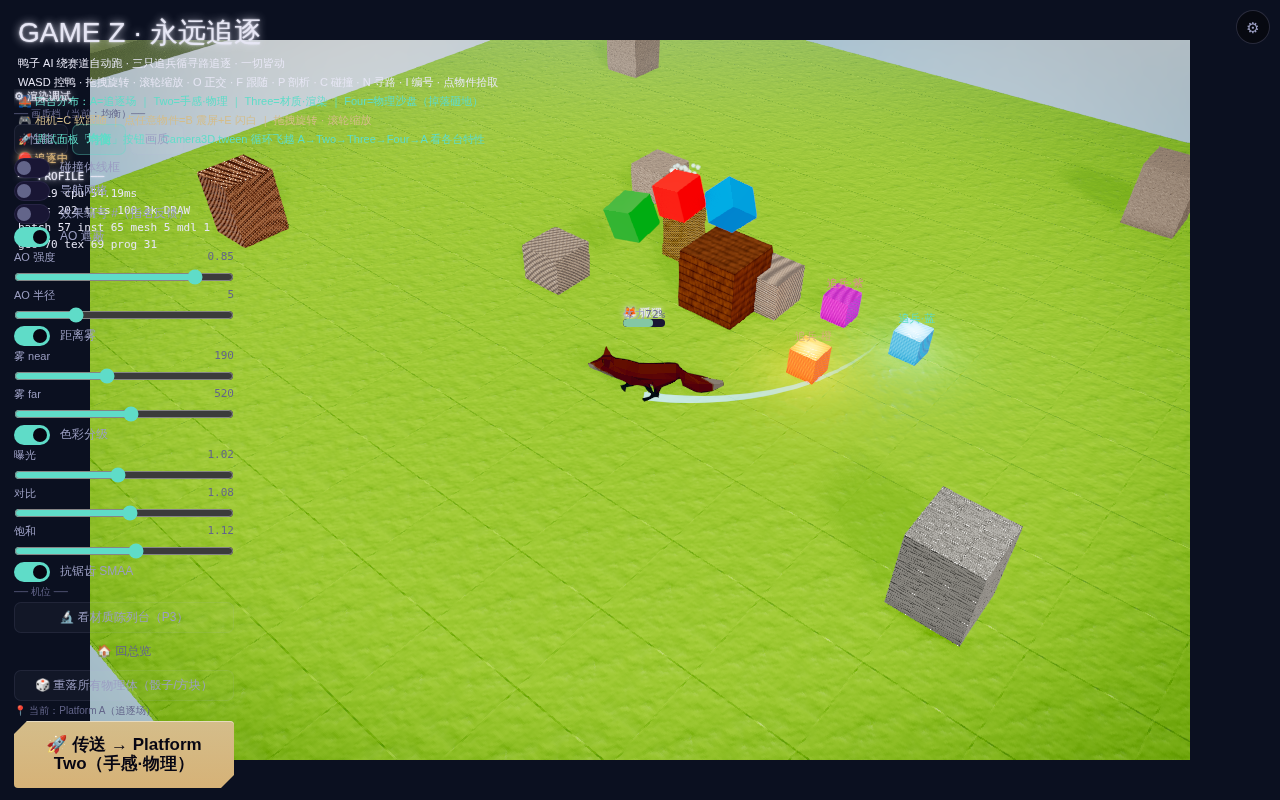
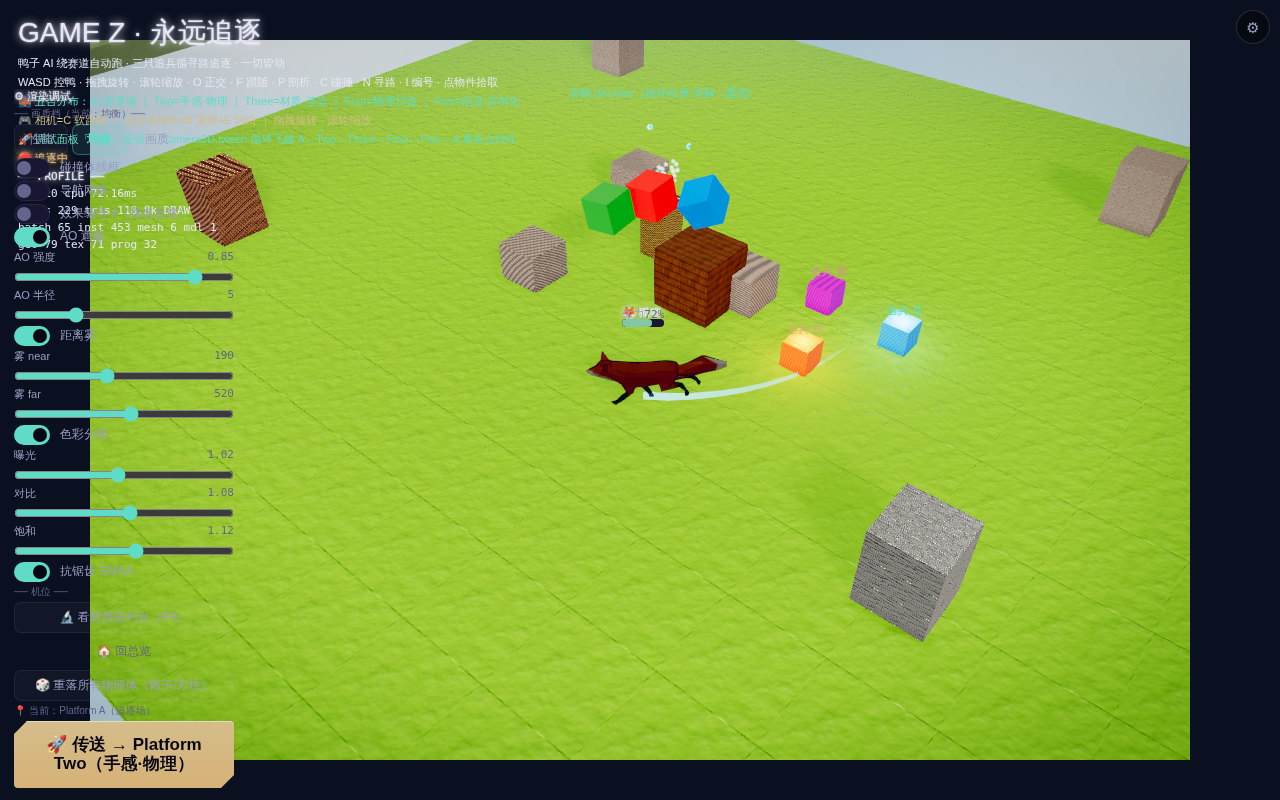
game-z：中心加一颗循环自播的溶解水晶（owner「场景里加一个溶解效果」）
原溶解 demo 在 Platform Three（p3-dissolve / p3-dissolve-tex·需传送·且是静态半溶解）。
现在中心信标上方加 arena-dissolve：悬浮青色水晶球，game-z.ts 每 2.4s bump 一次
dissolve.trigger + 翻转 direction（奇=溶解消散 out / 偶=重现 in·render-only·同 shake/flash
trigger 先例）→ 不停「溶解→重现」。默认跟随视角里鸭子绕它跑·常在框内，不用传送就看得见溶解在跑。

真浏览器目击 public/games/game-z/arena-dissolve.png（中心悬浮青水晶·voronoi 光点前沿）+
render-probe 零 console error。纯 game-z 改·门禁全绿 scope=game:game-z。

https://claude.ai/code/session_01HNFstbgQ3KRr7pMdtL5A22

diff --git a/games/game-z/game-z.ts b/games/game-z/game-z.ts
@@ -9,7 +9,7 @@ import { ThreeRenderer, type RenderStats } from '@zerocraft/engine/renderer/thre
 import { AssetManager, registerAssetIndex } from '@zerocraft/engine/assets/index.js';
 import { mountUI } from '@zerocraft/engine/ui/components/index.js';
 import type { LayoutNode } from '@zerocraft/engine/ui/components/index.js';
-import type { Velocity, Camera3D, Post3D, Fog3D, Transform, AnimState3D } from '@zerocraft/engine/engine/protocol/components.js';
+import type { Velocity, Camera3D, Post3D, Fog3D, Transform, AnimState3D, Material3D } from '@zerocraft/engine/engine/protocol/components.js';
 import { dioramaBlueprint, HOME_CAM, PLATFORM_TWO_CAM, PLATFORM_THREE_CAM, PLATFORM_FOUR_CAM, PLATFORM_FIVE_CAM, TRACK_R } from './diorama.js';
 import { GAME_Z_INDEX, GAME_Z_MATERIALS, DioramaLoader } from './assets.js';
 
@@ -319,12 +319,19 @@ export function mount(container: HTMLElement): () => void {
   // 帧率：每帧测壁钟差 → 平滑 fps，~4 次/秒刷 HUD（含 profiler·读 renderer.readStats）。
   let lastT = performance.now();
   let lastHud = 0;
+  let lastDissolve = 0; // 中心溶解水晶自播节拍（render-only·同 shake/flash trigger bump 先例）
   const unsub = engine.subscribe(() => {
     const now = performance.now();
     const dt = now - lastT;
     lastT = now;
     autoRun(); // 鸭子每帧自动绕赛道跑（无 WASD 时）
     syncGait(); // 迈腿倍速随地速（消滑步·auto/手动通用·读刚写的 Velocity）
+    // 溶解水晶循环：每 2.4s bump 一次 trigger·奇=溶解消散(out)/偶=重现(in) → 中心水晶不停溶解-重现。
+    if (now - lastDissolve > 2400) {
+      lastDissolve = now;
+      const md = engine.world.getComponent<Material3D>('arena-dissolve', 'Material3D');
+      if (md?.dissolve) { const t = (md.dissolve.trigger ?? 0) + 1; md.dissolve.trigger = t; md.dissolve.direction = t % 2 ? 'out' : 'in'; renderer.invalidate(); }
+    }
     if (dt > 0) fps = fps * 0.9 + (1000 / dt) * 0.1;
     if (now - lastHud > 250) { lastHud = now; ui.update(hudTree(Math.round(fps), renderer.readStats(), showProfiler, lastPicked)); }
   });

diff --git a/games/game-z/diorama.ts b/games/game-z/diorama.ts
@@ -463,6 +463,17 @@ export function dioramaBlueprint(): WorldBlueprint {
         },
       },
 
+      // 溶解水晶（REQ-3D-DISSOLVE·自播循环展示·owner「场景里加一个」）：悬于中心信标上方的水晶球，**每几秒
+      //   自播一轮「溶解消散 → 重现」**——game-z.ts 定时 bump `dissolve.trigger` + 翻转 `direction`（render-only·
+      //   同 shake/flash trigger 先例）。默认跟随视角里鸭子绕它跑·常在框内 → 不用传送就看得见溶解在跑。
+      'arena-dissolve': {
+        Transform3D: { x: 0, y: 16, z: 0 },
+        Mesh3D: { shape: 'sphere', width: 7, height: 7, frontTint: 0xffffff },
+        Material3D: { preset: 'steel', color: 0x39d0ff, dissolve: { trigger: 0, dur: 1.5, direction: 'out', pattern: 'voronoi', shape: 'euclid', edgeColor: 0x39d0ff, glow: 2.2, scale: 34 } },
+        Anim3D: { channels: [{ kind: 'spin', field: 'rotY', rate: 0.6 }] },
+        WorldUI3D: { text: '溶解 dissolve（循环自播·溶解→重现）', offsetY: 6, size: 'sm', color: 'jade' },
+      },
+
       // 三只追兵（从鸭子后方出发·鸭子起步在 (30,0) 向 +Z 跑 → 后方=−Z 侧·循 NavGraph 追逐）。前两只带动态点光。
       seeker: pursuer(30, -16, 0xff7043, 0xffab91, '追兵·橙', 'warn', { color: 0xffb060, intensity: 120, range: 30 }),
       'seeker-2': pursuer(38, -26, 0x42a5f5, 0x90caf9, '追兵·蓝', 'jade', { color: 0x6cc6ff, intensity: 110, range: 28 }),
